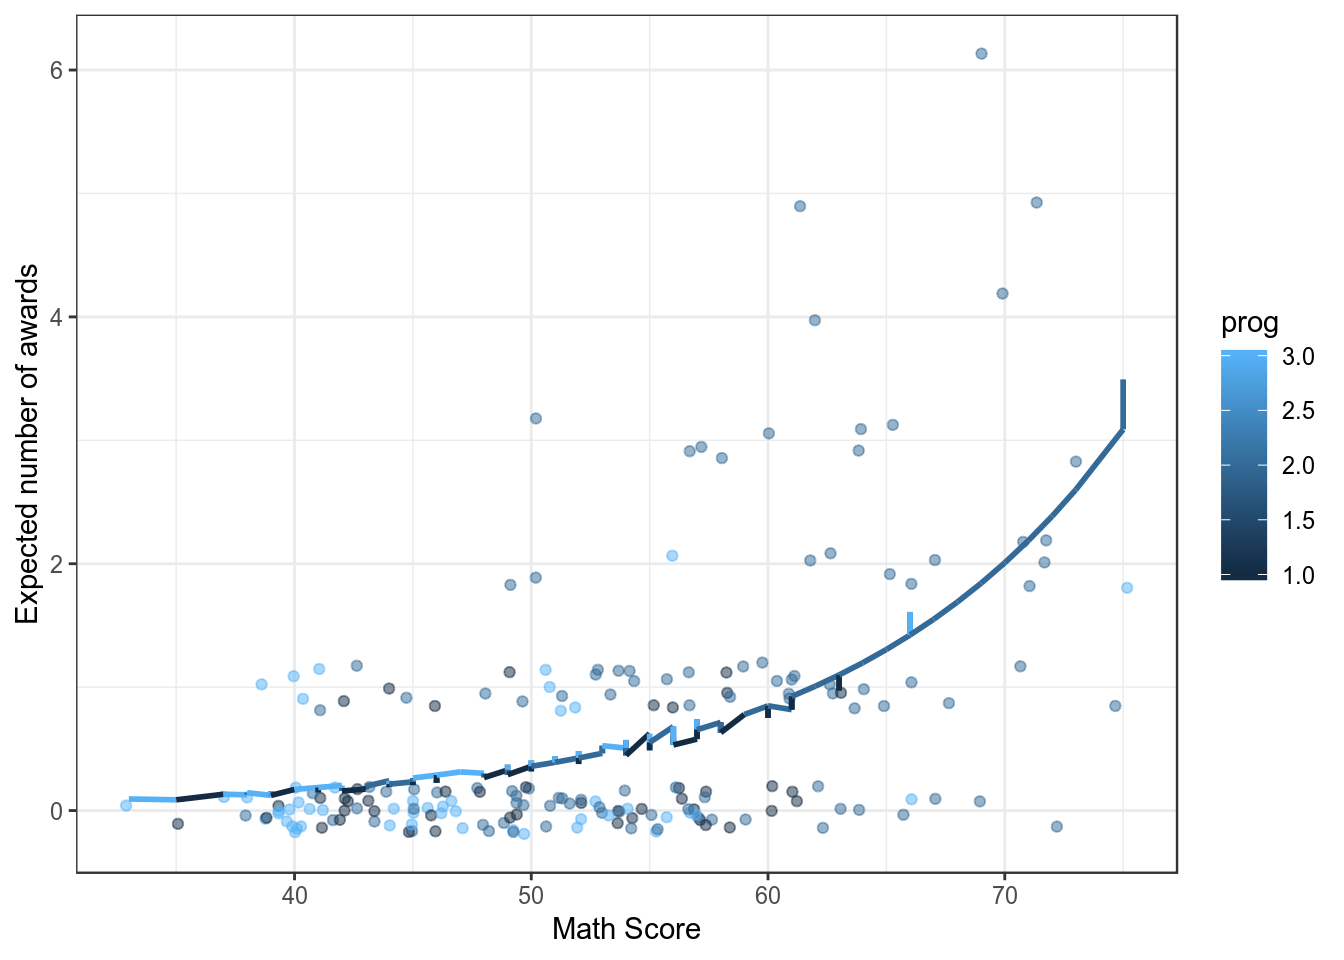
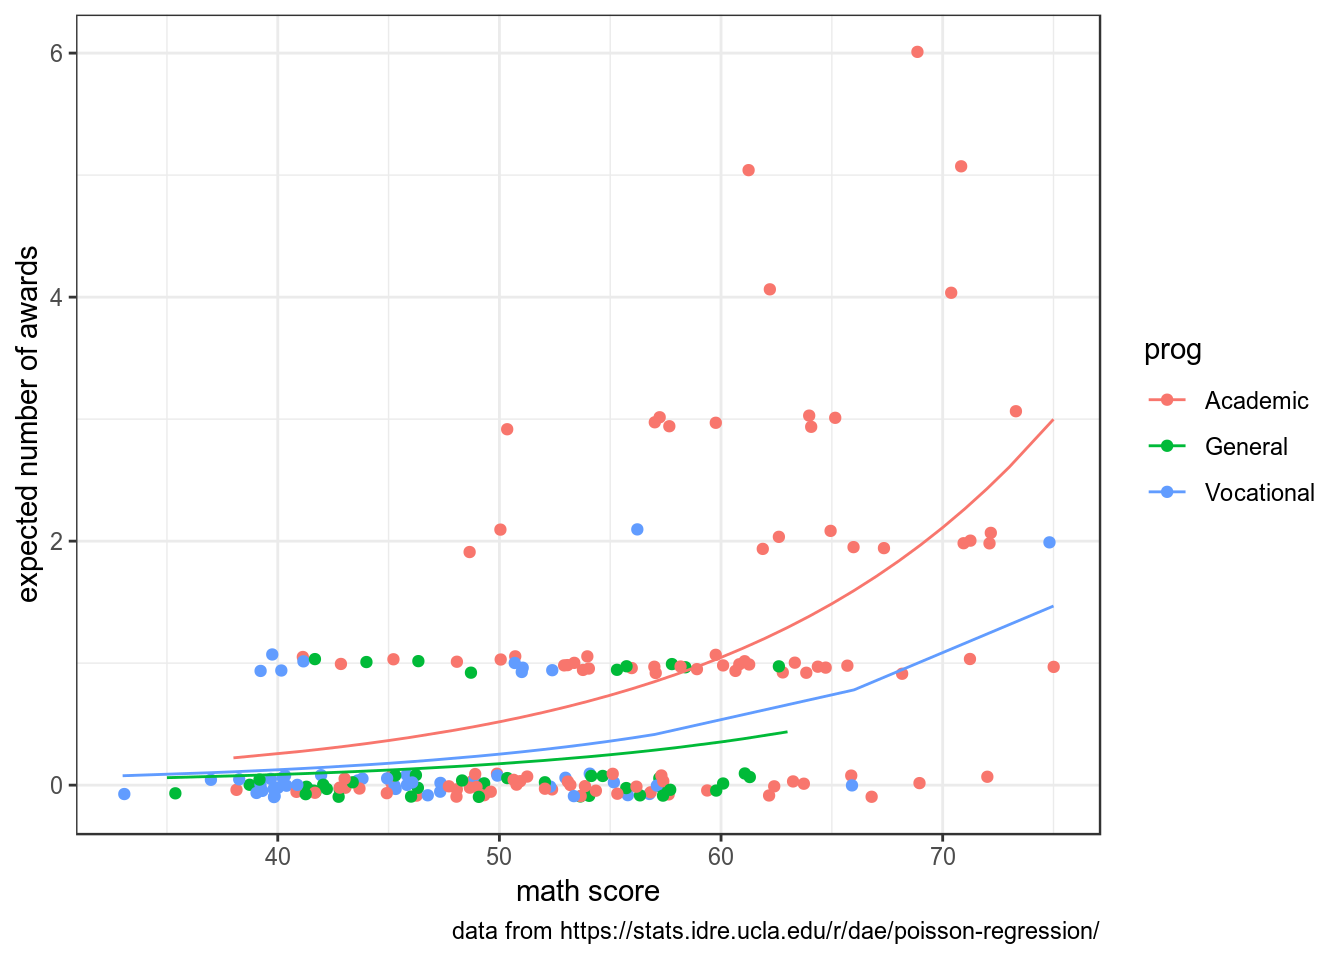
add some data

diff --git a/docs/01_distributions.html b/docs/01_distributions.html
@@ -623,13 +623,14 @@ div.tocify {
 <p><img src="01_distributions_files/figure-html/unnamed-chunk-10-1.png" width="672" /></p>
 <div id="section-2" class="section level4">
 <h4>2.3.1</h4>
-<p>Используя вот <a href="https://github.com/agricolamz/2019_BayesDan_winter/raw/master/datasets/awards.csv">этот датасет</a> и функцию <code>glm()</code> с аргументом <code>family=poisson</code> постройте регрессию, предсказывающую количество наград (<code>num_awards</code>), которые получат студенты на основе типа программы (<code>prog</code>) и оценки их экзамена по математике (<code>math</code>).</p>
+<p>Используя вот <a href="https://github.com/agricolamz/2019_BayesDan_winter/raw/master/datasets/awards.csv">этот датасет</a> и функцию <code>glm()</code> с аргументом <code>family=poisson</code>, постройте регрессию, предсказывающую количество наград (<code>num_awards</code>), которые получат студенты на основе типа программы (<code>prog</code>) и оценки их экзамена по математике (<code>math</code>). Если записать датасет в переменную <code>df</code>, а модель в переменную <code>model</code>, следующий код должен делать следующий график:</p>
 <div class="sourceCode" id="cb13"><pre class="sourceCode r"><code class="sourceCode r"><a class="sourceLine" id="cb13-1" data-line-number="1">df <span class="op">%&gt;%</span><span class="st"> </span></a>
 <a class="sourceLine" id="cb13-2" data-line-number="2"><span class="st">  </span><span class="kw">mutate</span>(<span class="dt">predictions =</span> <span class="kw">predict</span>(model, <span class="dt">type =</span> <span class="st">&quot;response&quot;</span>)) <span class="op">%&gt;%</span><span class="st"> </span></a>
 <a class="sourceLine" id="cb13-3" data-line-number="3"><span class="st">  </span><span class="kw">ggplot</span>(<span class="kw">aes</span>(<span class="dt">x =</span> math, <span class="dt">y =</span> predictions, <span class="dt">color =</span> prog)) <span class="op">+</span></a>
-<a class="sourceLine" id="cb13-4" data-line-number="4"><span class="st">  </span><span class="kw">geom_point</span>(<span class="kw">aes</span>(<span class="dt">y =</span> num_awards), <span class="dt">alpha=</span>.<span class="dv">5</span>, <span class="dt">position=</span><span class="kw">position_jitter</span>(<span class="dt">h=</span>.<span class="dv">2</span>)) <span class="op">+</span></a>
-<a class="sourceLine" id="cb13-5" data-line-number="5"><span class="st">  </span><span class="kw">geom_line</span>(<span class="dt">size =</span> <span class="dv">1</span>) <span class="op">+</span></a>
-<a class="sourceLine" id="cb13-6" data-line-number="6"><span class="st">  </span><span class="kw">labs</span>(<span class="dt">x =</span> <span class="st">&quot;Math Score&quot;</span>, <span class="dt">y =</span> <span class="st">&quot;Expected number of awards&quot;</span>)</a></code></pre></div>
+<a class="sourceLine" id="cb13-4" data-line-number="4"><span class="st">  </span><span class="kw">geom_point</span>(<span class="kw">aes</span>(<span class="dt">y =</span> num_awards), <span class="dt">position=</span><span class="kw">position_jitter</span>(<span class="dt">h=</span>.<span class="dv">1</span>)) <span class="op">+</span></a>
+<a class="sourceLine" id="cb13-5" data-line-number="5"><span class="st">  </span><span class="kw">geom_line</span>() <span class="op">+</span></a>
+<a class="sourceLine" id="cb13-6" data-line-number="6"><span class="st">  </span><span class="kw">labs</span>(<span class="dt">x =</span> <span class="st">&quot;math score&quot;</span>, <span class="dt">y =</span> <span class="st">&quot;expected number of awards&quot;</span>,</a>
+<a class="sourceLine" id="cb13-7" data-line-number="7">       <span class="dt">caption =</span> <span class="st">&quot;data from https://stats.idre.ucla.edu/r/dae/poisson-regression/&quot;</span>)</a></code></pre></div>
 <p><img src="01_distributions_files/figure-html/unnamed-chunk-12-1.png" width="672" /></p>
 </div>
 </div>
